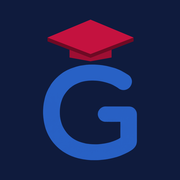
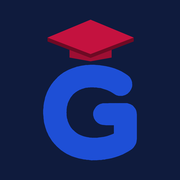
Thicken the brand G to match the wordmark weight
The traced G stroke was 0.126em against 0.178em for Nunito Black's
"l" stem. Offset the outline uniformly and refit it to its original
box, bringing the vertical stroke to 0.177em while keeping the cap
height, baseline and cap position.

Favicons are now rendered from the LogoMark SVG itself, so the header
mark and icon.png / favicon.ico / apple-icon.png share the same shape
and royal blue (#1E4FD6).

diff --git a/components/layout/LogoMark.tsx b/components/layout/LogoMark.tsx
@@ -2,7 +2,7 @@
 export function LogoMark({ className = "" }: { className?: string }) {
   return (
     <svg viewBox="0 0 544.25 816.75" aria-hidden="true" focusable="false" className={className}>
-      <path fill="#1E4FD6" d="M293.3 261L283.3 262L273.5 261.8L264.3 263L246.5 264L219 268L202.7 272.2L194.7 273.5L190.3 275.5L168 282.5L149.3 290L140.7 294.2L116.7 308L101.3 319L90 328L84.3 333.5L61.5 357.5L47 376.5L33.7 398.2L23.7 418.5L11.7 451L10.3 460L5.5 479.8L2.5 500L2.5 508.8L0.5 525.8L0.5 539L0 542L2.5 565L2.5 572.2L4.3 581L5.7 597L7.7 602.8L8.7 608.8L13.5 626.8L21 649.8L25.3 657.2L31.7 672.5L52 704.8L65.5 721.2L79.7 736L102.3 755.8L123.7 770.8L138.3 779L164.7 791.8L181.5 797.8L207.5 805.5L212.3 806L237.3 811.5L246.5 812L254 813.8L261.3 813.8L273.5 815L283.5 816.8L292.5 815.8L317 816L335.5 813.8L342.5 814L354.3 812L361.7 811.8L368.5 810L384.5 807.5L404 803.5L426.3 797.5L447.3 790.5L470.5 780.8L501 765L516.5 755L524.7 748.8L529.3 744.2L536.5 733.8L540.3 725.5L542 719.8L544.3 702.8L544.3 554L542.5 540.5L540.3 533.2L537.3 527.2L533 521.2L527 515.2L517.5 509.8L504.7 505.8L463 506L458.5 505.2L453.3 505.2L449.3 506L442.7 506L433.3 505.2L411.7 505.8L403.5 505L390.7 506L357.3 506L345.5 509.5L336.3 514.5L330.5 519.8L322 532.2L320 537L318.5 545L318.5 553.5L322 566L328.7 576.5L334.7 582.5L340.5 586.5L347 589.5L353.5 591.5L372.5 593.8L428.3 593.8L434.5 592.8L443.3 592.8L447.7 594L450 596.8L450.5 598.8L450.5 681.5L449.7 684.8L448.3 687.2L446 689.2L434 696.8L426.5 699.5L414 705.2L404.7 708L397.3 711L387.7 714L364.5 719.8L347.3 721.2L340.5 722.8L333.5 723L325.3 724.8L313.3 726L292.5 726L286.3 725L279.5 725L274.7 724L267.3 723.8L258.5 722L252.5 721.8L245.7 720.5L224 715L209 709.8L188.7 700.8L173 691.5L158 680L138.3 660.2L128 647L120.5 635.5L112.3 619L104.3 598L103 590.2L100.5 582.8L96.7 559.5L96.5 555.2L97.3 548L96.3 541.8L96.3 533L97 529L96.5 519.2L99.7 495.5L103 485L104 478L108.7 464L118.5 443.2L126.7 429.5L143.3 408.5L151 400.8L166 388.8L178.3 380.2L195.7 371L204 368.2L210.7 364.8L219.7 362.5L225.5 360.2L244.5 356L251.5 355.5L260.5 353.8L270.7 354L281.5 352.8L293.3 352.8L303 354.2L312 353.8L326.3 356.5L333.3 356.8L344.7 358.5L358.3 361.8L364.3 364.2L381.7 369L394.5 373.8L414.5 383.2L429 391.5L443.3 401.2L449.7 404.8L458.5 407.5L473.3 407.8L486.5 404L495.7 398.5L504 390.2L510.7 379.2L514 369.8L514.5 364.2L514.3 351.8L511.7 344L507.3 335.2L503 329.2L496.5 323.8L483 314.8L460 301.2L442.5 293L420.7 284.2L406.5 279.5L386.5 274.2L367 270L329.5 264.2L307.5 263Z" />
+      <path fill="#1E4FD6" d="M292 261L282.5 261.8L270.7 261.8L262.6 262.9L246 263.9L219.3 267.7L204.5 271.6L195.2 273.2L188.6 275.9L168.7 282.2L150.2 289.6L140.6 294.4L119.2 306.6L101.4 319.1L87.1 331.1L61.6 357.7L47.2 376.6L33.3 399.5L23.5 419.5L11.6 451.7L9.6 462.9L5.2 480.9L2.3 501.3L2.3 509.5L0.5 524.8L0.5 536.3L0 539.9L0.1 545.2L2.3 564.7L2.3 571.4L4.1 581.5L5.5 596L13.1 625.9L21 649.8L25.4 657.9L32.1 673.1L51.8 704.5L65.3 721.1L81.5 737.8L102.8 756.4L123.6 771L138.3 779.4L165.7 792.6L183.4 798.8L207.8 806.1L215.6 807.2L236.8 811.9L245.4 812.5L253.1 814.1L261 814.2L269.1 815L280 816.8L285.3 816.8L292.6 816L313.8 816.2L330.5 814.3L338.9 814.3L349.1 812.6L357.5 812.1L365.6 810.2L379.8 808L398 804.2L420.7 798L440.5 791.4L463.1 781.9L494.8 765.3L508.7 756.3L516.5 750.5L525 742.3L534.1 729.1L539.3 717.9L541.9 709L544.3 690.9L544.3 550.7L542 534.4L538.8 524.4L534.5 515.9L528.4 507.4L520.5 499.4L517 496.9L506.2 490.7L488.7 485.2L485.1 484.9L449 485.1L443 484.4L428.7 485.1L420.3 484.4L399 484.8L391.1 484.2L379.6 485.1L345.6 485.4L329.9 490.1L316.8 497.3L307.4 505.9L297 521L293 530.4L291 540.7L290.7 554.2L291.3 557.9L294.7 570.3L297 575.7L305.2 588.2L314.5 597.5L322 602.8L332.1 607.6L342.8 610.6L363 612.9L409.4 612.9L411 613.8L411.1 659.9L409.3 661.9L393.1 668.8L371.9 676L353.6 680.6L338 682.1L331.9 683.4L324.6 683.8L316.3 685.5L309.8 686.2L293 686.3L270.1 684.3L264 683L253.3 681.9L235.3 677.3L223.2 673.1L206.4 665.5L195 658.8L182.9 649.4L168.5 635L160 624L154.6 615.8L148.1 602.9L142.1 586.9L140.9 580.3L138.5 572.7L135.9 556.5L136.2 545.2L135.3 538.8L136 531.9L135.8 521.2L138.2 504.2L140.9 495.3L142.1 488.4L145.3 479L153.1 462.4L159.3 452.2L172.2 435.7L176.8 431L189.2 421L198.9 414.2L211.9 407.4L219 405L224.5 402.2L231.1 400.5L236.9 398.3L250.1 395.3L257 394.8L263.5 393.5L271.6 393.6L282.2 392.5L289.3 392.5L299.9 393.9L307.4 393.6L318 395.7L326.2 396.1L334.2 397.4L343.5 399.7L349.9 402.2L364.8 406.2L374.6 409.9L391.6 418L402.8 424.4L416.2 433.5L425.1 438.2L438.1 442.2L456.1 442.8L461.1 442.2L475.9 438L480.3 435.9L490.2 429.9L502.9 417.3L510.2 405.6L512.3 401.2L516.2 389.3L517.1 381.5L516.7 364L512.8 351.3L507.1 340.2L500.9 331.7L491.2 323.1L477.4 313.8L455.1 300.7L438.5 292.8L417.2 284.1L401.2 278.7L382 273.7L361 269.2L327.3 264.1L306.8 262.9Z" />
       <path fill="#9E0F33" d="M153.5 122L397.5 122L397.5 220L275.5 242L153.5 220Z" />
       <path fill="#6E0A24" d="M25.5 104L275.5 200L525.5 104L525.5 126L275.5 222L25.5 126Z" />
       <path fill="#C4123F" d="M25.5 104L275.5 0L525.5 104L275.5 200Z" />
